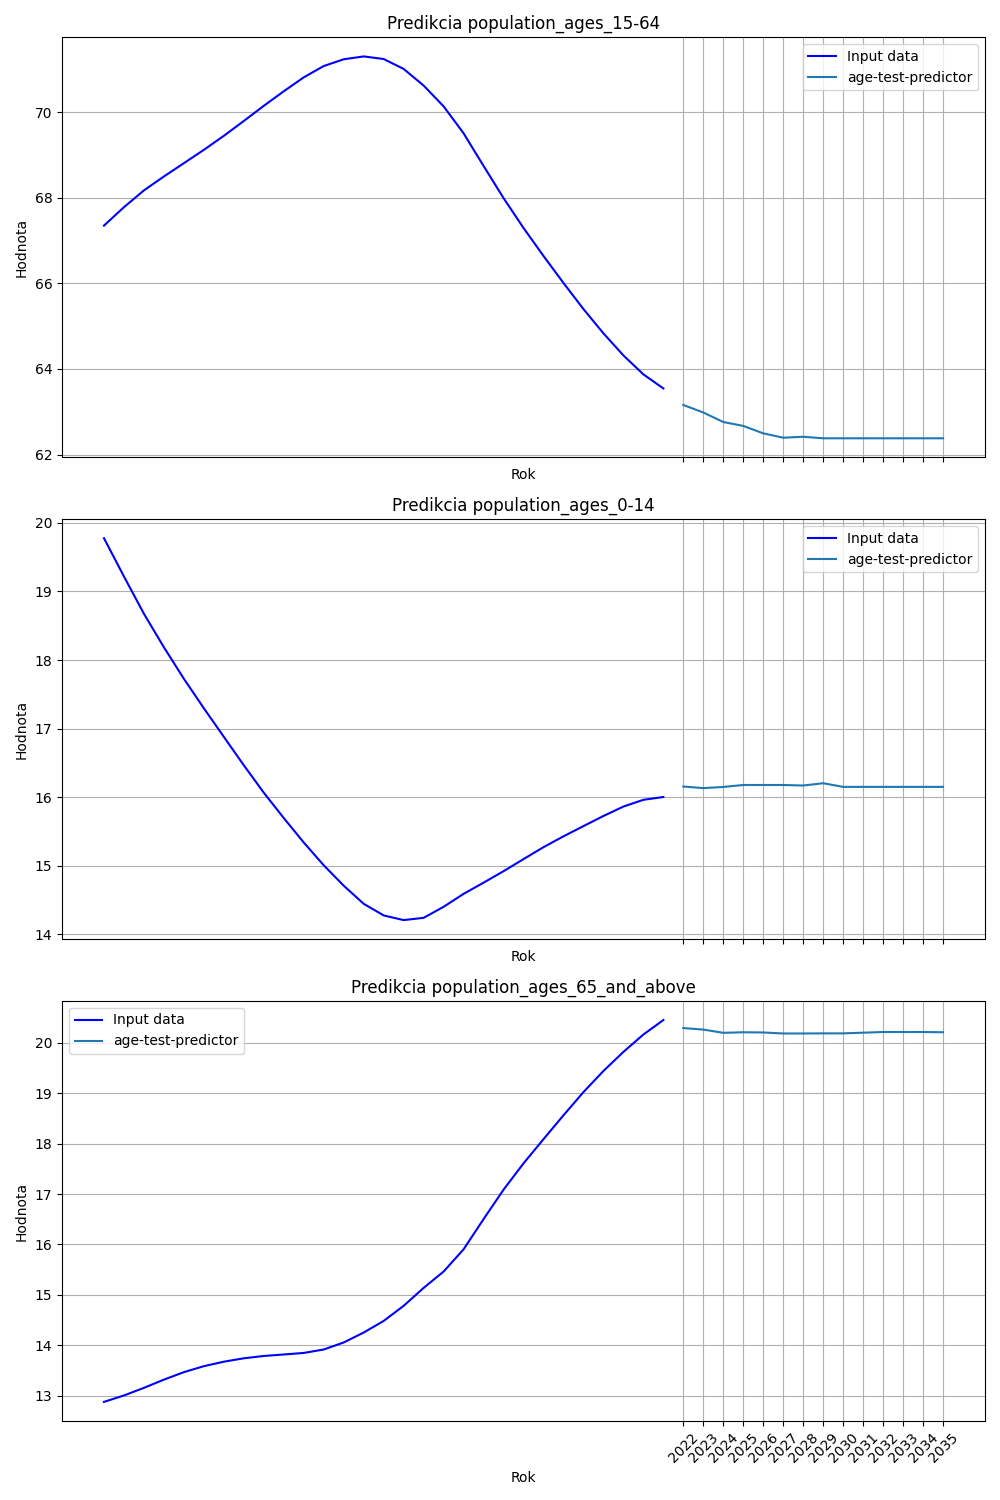
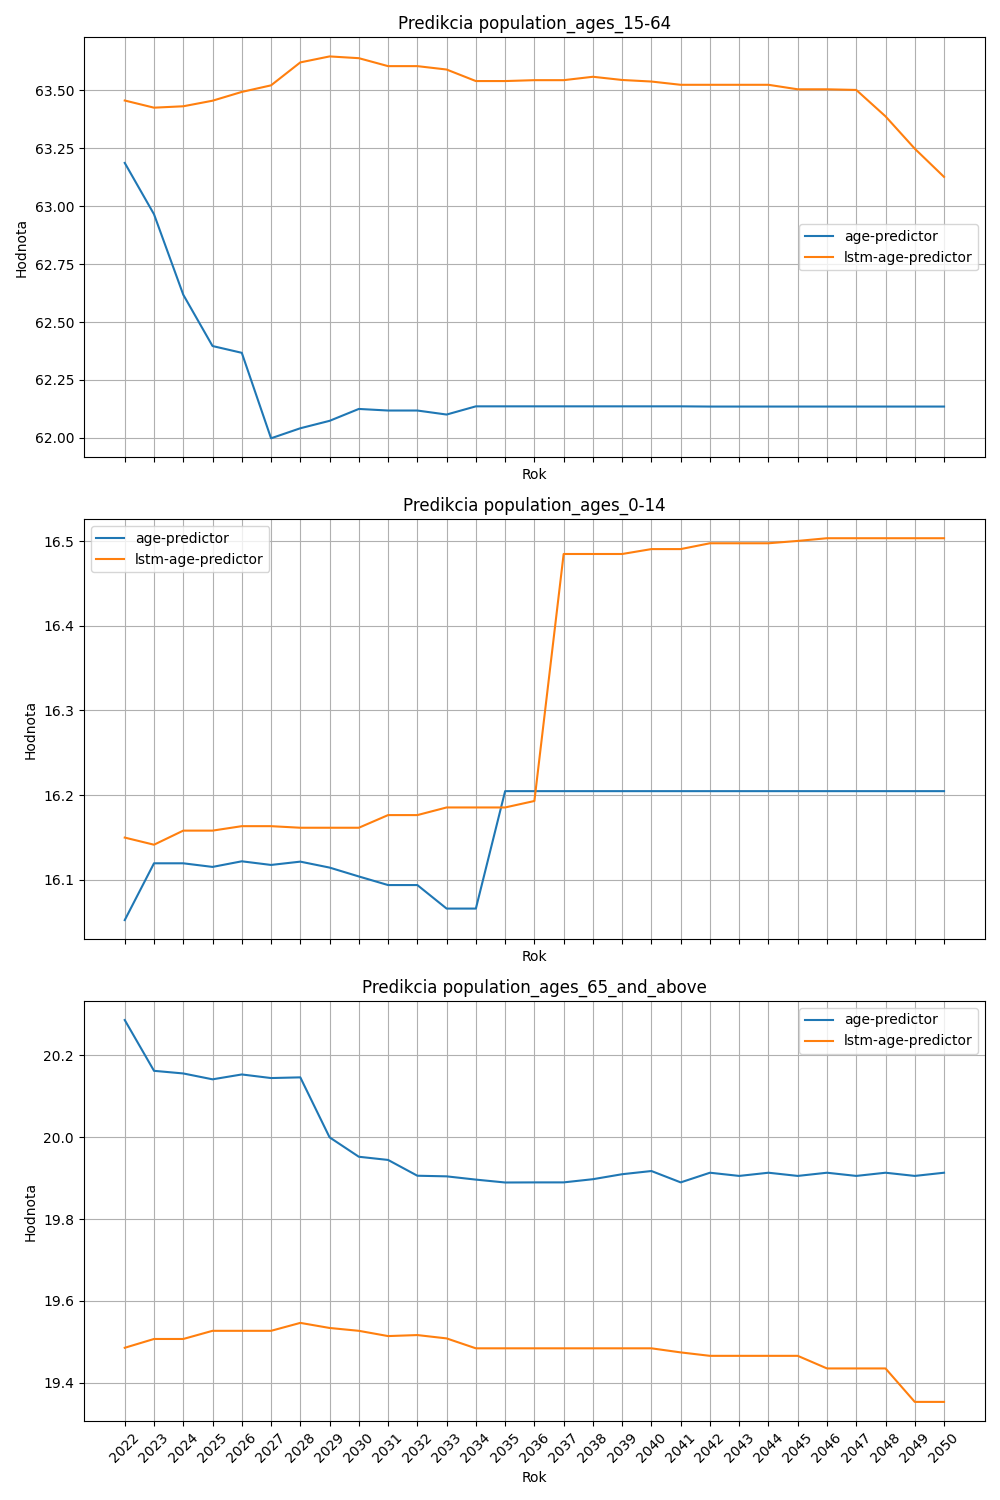
(fix) CLI etc..

diff --git a/src/cli/cli.py b/src/cli/cli.py
@@ -159,7 +159,15 @@ def explain(
     help="If set, the plot will be saved with this prefix.",
     default="",
 )
-def compare_predictions(models: str, state: str, target_year: int, plot_prefix: str):
+@click.option(
+    "--plot-input-data",
+    is_flag=True,
+    help="If set, the input data will be plotted.",
+    default=False,
+)
+def compare_predictions(
+    models: str, state: str, target_year: int, plot_prefix: str, plot_input_data: bool
+):
     """
     Compares predictions of the models. If models are not specified, all models are compared.
     """
@@ -214,7 +222,6 @@ def compare_predictions(models: str, state: str, target_year: int, plot_prefix: 
     }
 
     # Plot the predictions
-    plot_input_data = True
     for i, target in enumerate(TARGETS):
 
         if plot_input_data:

diff --git a/src/train_scripts/train_predictors.py b/src/train_scripts/train_predictors.py
@@ -184,7 +184,7 @@ def train_gender_dist_predictor(
 ):
     # Feature model input/output
     FEATURE_MODEL_FEATURES: List[str] = basic_features(
-        exclude=highly_correlated_features()
+        exclude=[*highly_correlated_features(), "year"]
     )
 
     # Get global model settings

diff --git a/src/train_scripts/train_pipelines.py b/src/train_scripts/train_pipelines.py
@@ -140,7 +140,7 @@ def train_arima_xgboost_pipeline(
         targets=target_model_targets,
         sequence_len=10,
         xgb_tune_parameters=xgb_tune_parameters,
-        tune_hyperparams=False,
+        tune_hyperparams=tune_hyperparams,
     )
 
     # Create pipeline

diff --git a/src/pipeline.py b/src/pipeline.py
@@ -638,10 +638,6 @@ class PredictorPipeline:
             axis=1,
         )
 
-        print(final_input)
-
-        # print(final_input)
-
         predicted_data_df = self.global_model_pipeline.predict(
             state=state,
             input_data=final_input,
